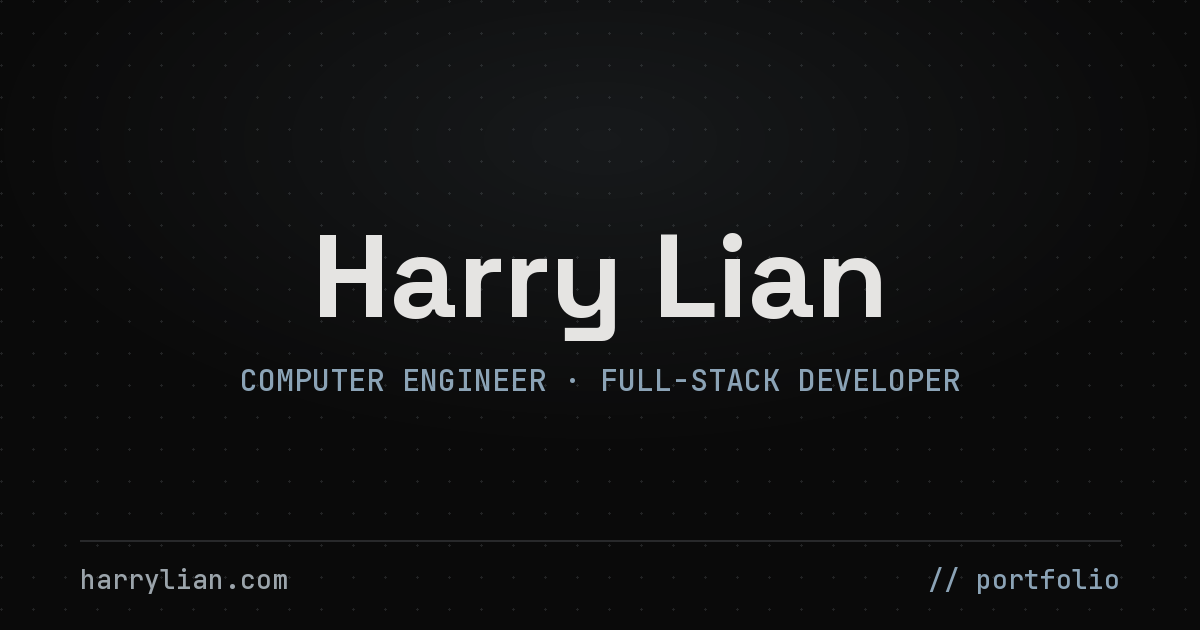
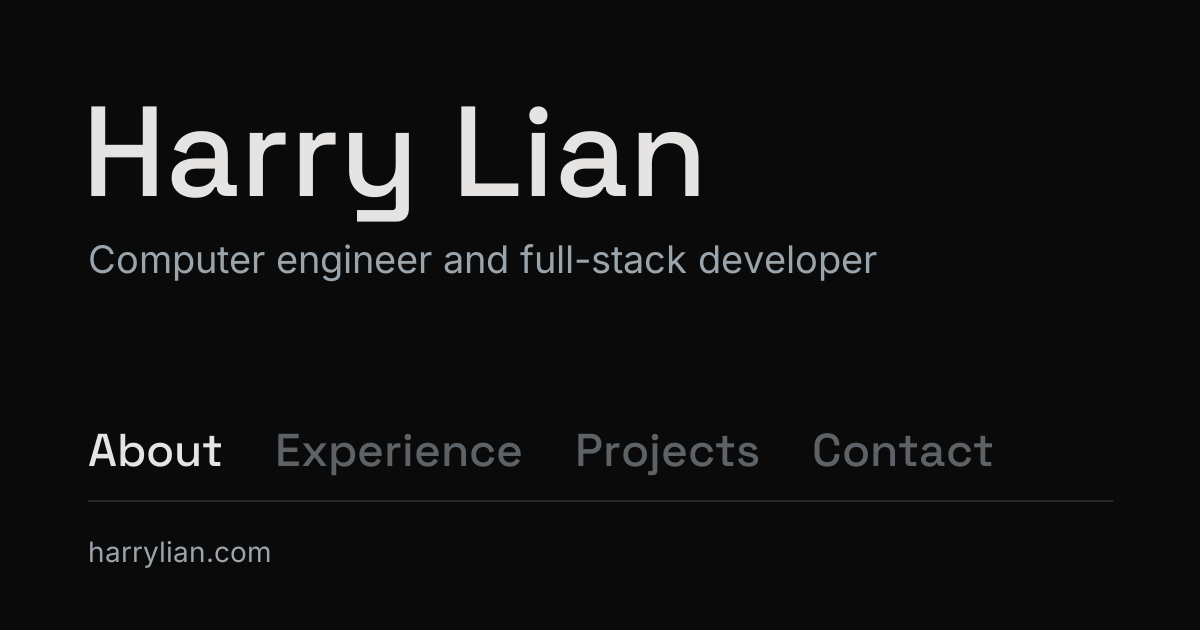
fixing some bugs

diff --git a/frontend/src/components/About.jsx b/frontend/src/components/About.jsx
@@ -55,7 +55,8 @@ function About() {
 
         <div className="about-education">
           <p className="about-school">The Ohio State University</p>
-          <p className="about-degree">B.S. Electrical &amp; Computer Engineering, May 2026</p>
+          <p className="about-degree">B.S. Electrical &amp; Computer Engineering</p>
+          <p className="about-degree">May 2026</p>
           <button
             className="about-courses-toggle"
             onClick={() => setShowCourses((open) => !open)}

diff --git a/frontend/index.html b/frontend/index.html
@@ -16,7 +16,7 @@
         }
       })();
     </script>
-    <link rel="icon" type="image/svg+xml" href="/src/assets/initials.ico" />
+    <link rel="icon" type="image/x-icon" href="/src/assets/initials.ico" />
     <meta
       name="viewport"
       content="width=device-width, initial-scale=1.0, viewport-fit=cover"

diff --git a/frontend/src/components/About.css b/frontend/src/components/About.css
@@ -125,6 +125,7 @@
 @media (min-width: 1200px) {
   .split.about {
     grid-template-columns: minmax(0, 1fr) max-content;
+    gap: clamp(2rem, 3.5vw, 4rem);
   }
 }
 

diff --git a/frontend/scripts/generateOg.py b/frontend/scripts/generateOg.py
@@ -1,21 +1,20 @@
 #!/usr/bin/env python3
 """
-Regenerates public/front.png 
-
-The purpose of this: reading index.css, so webfront is adjusted
+Regenerates public/front.png, the link preview image, using the colors in index.css
 """
 
 import glob
 import os
 import re
 import sys
+import tempfile
 
 from fontTools.ttLib import TTFont
 from PIL import Image, ImageDraw, ImageFont
 
-os.chdir(os.path.join(os.path.dirname(__file__), '..'))  # run from frontend/ regardless of cwd
+os.chdir(os.path.join(os.path.dirname(__file__), '..'))  # Run from frontend/ regardless of cwd
 
-# parse from index.css
+# Read the dark theme colors from index.css
 css = open('src/index.css').read()
 root = css.split(':root')[1].split('}')[0]
 
@@ -25,57 +24,43 @@ def var(name):
         sys.exit(f'could not find --{name} in index.css :root')
     return m.group(1)
 
-BG, HEADING, ACCENT, TEXT, BORDER = var('bg'), var('text-h'), var('accent'), var('text'), var('border')
+BG, HEADING, TEXT, DIM, BORDER = var('bg'), var('text-h'), var('text'), var('text-dim'), var('border')
 
-def rgb(hexstr):
-    return tuple(int(hexstr[i:i + 2], 16) for i in (1, 3, 5))
-
-def blend(a, b, t):  # a..b at t in [0,1] — used to derive the dot-grid tone
-    return tuple(round(x + (y - x) * t) for x, y in zip(rgb(a), rgb(b)))
-
-# fonts section
-def ttf(package_glob, out):
+# Convert the site's bundled fonts to TTF for Pillow
+def ttf(package_glob, name):
     matches = glob.glob(package_glob)
     if not matches:
-        sys.exit(f'font not found ({package_glob}) — run npm install first')
+        sys.exit(f'font not found ({package_glob}); run npm install first')
     f = TTFont(matches[0])
     f.flavor = None
+    out = os.path.join(tempfile.gettempdir(), name)
     f.save(out)
     return out
 
-heading_ttf = ttf('node_modules/@fontsource/space-grotesk/files/space-grotesk-latin-700-normal.woff2', '/tmp/og-heading.ttf')
-mono_ttf = ttf('node_modules/@fontsource/jetbrains-mono/files/jetbrains-mono-latin-500-normal.woff2', '/tmp/og-mono.ttf')
+heading_ttf = ttf('node_modules/@fontsource/space-grotesk/files/space-grotesk-latin-500-normal.woff2', 'og-heading.ttf')
+body_ttf = ttf('node_modules/@fontsource/inter/files/inter-latin-400-normal.woff2', 'og-body.ttf')
 
-# rendering
-W, H = 1200, 630
+# Layout mirrors the site: name, tagline, tab row, rule, footer
+W, H, M = 1200, 630, 88
 img = Image.new('RGB', (W, H), BG)
 d = ImageDraw.Draw(img)
 
-for x in range(0, W, 32):  # dot grid, echoing the site background
-    for y in range(0, H, 32):
-        d.ellipse([x, y, x + 2, y + 2], fill=blend(BG, BORDER, 0.8))
+name_f = ImageFont.truetype(heading_ttf, 128)
+tagline_f = ImageFont.truetype(body_ttf, 38)
+tab_f = ImageFont.truetype(heading_ttf, 46)
+url_f = ImageFont.truetype(body_ttf, 28)
 
-glow = Image.new('L', (W, H), 0)  # soft accent glow behind the name, echoing the hero
-gd = ImageDraw.Draw(glow)
-cx, cy, r = W // 2, 140, 620
-for i in range(r, 0, -4):
-    gd.ellipse([cx - i, cy - i // 2, cx + i, cy + i // 2], fill=int(26 * (1 - i / r)))
-img = Image.composite(Image.new('RGB', (W, H), ACCENT), img, glow)
-d = ImageDraw.Draw(img)
+d.text((M - 6, 70), 'Harry Lian', font=name_f, fill=HEADING)
+d.text((M, 236), 'Computer engineer and full-stack developer', font=tagline_f, fill=TEXT)
 
-name_f = ImageFont.truetype(heading_ttf, 118)
-role_f = ImageFont.truetype(mono_ttf, 30)
-url_f = ImageFont.truetype(mono_ttf, 26)
+# Tab row with About active, like the site's first screen
+x = M
+for i, label in enumerate(['About', 'Experience', 'Projects', 'Contact']):
+    d.text((x, 420), label, font=tab_f, fill=HEADING if i == 0 else DIM)
+    x += d.textlength(label, font=tab_f) + 52
 
-def centered(text, font, y, fill):
-    d.text(((W - d.textlength(text, font=font)) / 2, y), text, font=font, fill=fill)
-
-centered('Harry Lian', name_f, 200, HEADING)
-centered('COMPUTER ENGINEER · FULL-STACK DEVELOPER', role_f, 360, ACCENT)
-
-d.line([(80, 540), (W - 80, 540)], fill=rgb(BORDER), width=2)
-d.text((80, 562), 'harrylian.com', font=url_f, fill=TEXT)
-d.text((W - 80 - d.textlength('// portfolio', font=url_f), 562), '// portfolio', font=url_f, fill=ACCENT)
+d.line([(M, 500), (W - M, 500)], fill=BORDER, width=2)
+d.text((M, 534), 'harrylian.com', font=url_f, fill=TEXT)
 
 img.save('public/front.png', optimize=True)
-print(f'public/front.png regenerated from palette: bg {BG}, heading {HEADING}, accent {ACCENT}')
+print(f'public/front.png regenerated from palette: bg {BG}, heading {HEADING}, text {TEXT}')
